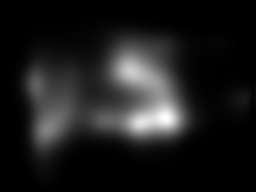
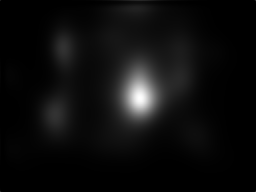
added 'other' option for datasets, worked on DAVIS

Changed region(s): [[0.0625, 0.1875, 0.7812, 0.8438], [0.4688, 0.0, 0.5938, 0.0938], [0.2188, 0.1562, 0.2812, 0.3125]]

diff --git a/src/inference.py b/src/inference.py
@@ -11,7 +11,7 @@ import torch.backends.cudnn as cudnn
 from torch import nn
 from torch.utils import data
 from torch.autograd import Variable
-from data_loader import DHF1K_frames, Hollywood_frames
+from data_loader import DHF1K_frames, Hollywood_frames, DAVIS_frames
 
 
 """
@@ -43,19 +43,17 @@ params = {'batch_size': 1,
 
 def main(args):
 
-    if args.dataset == "DHF1K" or args.dataset == "other":
-        dst = os.path.join(args.dst, "{}_predictions".format(args.pt_model.replace(".pt", "")))
-    elif args.dataset == "Hollywood-2" or args.dataset == "UCF-sports":
+    if args.dataset == "Hollywood-2" or args.dataset == "UCF-sports":
         dst = os.path.join(args.dst, "{}/testing".format(args.dataset)) #Hollywood or UCF-sports
     else:
-        print("Dataset not recognized. If you want to input your own dataset use input '-dataset=other' and specify the path '-src /path/to/mydataset'.")
+        dst = os.path.join(args.dst, "{}_predictions".format(args.pt_model.replace(".pt", "")))
     print("Output directory {}".format(dst))
 
     # =================================================
     # ================ Data Loading ===================
 
     #Expect Error if either validation size or train size is 1
-    if args.dataset == "DHF1K" or args.dataset == "other":
+    if args.dataset == "DHF1K":
         #print(args.start)
         #print(args.end)
         print("Commencing inference for dataset {}".format(args.dataset))
@@ -76,6 +74,14 @@ def main(args):
             clip_length = CLIP_LENGTH,
             resolution = frame_size)
         video_name_list = dataset.video_names() #match an index to the sample video name
+    elif args.dataset == "DAVIS" or args.dataset == "other":
+        print("Commencing inference for dataset {}".format(args.dataset))
+        dataset = DAVIS_frames(
+            root_path = args.src,
+            clip_length = CLIP_LENGTH,
+            resolution = frame_size)
+        video_name_list = dataset.video_names() #match an index to the sample video name
+
 
     print("Size of test set is {}".format(len(dataset)))
 
@@ -209,7 +215,7 @@ def main(args):
                     state = repackage_hidden(state)
             print("Video {} done".format(i+int((args.start))))
 
-        elif args.dataset == "Hollywood-2" or "UCF-sports":
+        elif args.dataset == "Hollywood-2" or args.dataset == "UCF-sports":
 
             video_dst = os.path.join(dst, video_name_list[i], '{}_predictions'.format(args.pt_model.replace(".pt", "")))
             print("Destination: {}".format(video_dst))
@@ -218,33 +224,52 @@ def main(args):
 
             for j, (clip, _) in enumerate(video):
                 clip = Variable(clip.type(dtype).transpose(0,1), requires_grad=False)
-                if args.double_ema:
-                    if state == None:
-                        state = (None, None)
-                    for idx in range(clip.size()[0]):
-                        # Compute output
-                        state, saliency_map = model.forward(input_ = clip[idx], prev_state_1 = state[0], prev_state_2 = state[1])
+                for idx in range(clip.size()[0]):
+                    # Compute output
+                    if TEMPORAL:
+                        state, saliency_map = model.forward(input_ = clip[idx], prev_state = state)
+                    else:
+                        saliency_map = model.forward(input_ = clip[idx])
 
-                        saliency_map = saliency_map.squeeze(0) # Target is 3 dimensional (grayscale image)
+                    count+=1
+                    saliency_map = saliency_map.squeeze(0)
 
-                        post_process_saliency_map = (saliency_map-torch.min(saliency_map))/(torch.max(saliency_map)-torch.min(saliency_map))
-                        utils.save_image(post_process_saliency_map, os.path.join(video_dst, "{}.png".format(str(count).zfill(4))))
+                    post_process_saliency_map = (saliency_map-torch.min(saliency_map))/(torch.max(saliency_map)-torch.min(saliency_map))
+                    utils.save_image(post_process_saliency_map, os.path.join(video_dst, "{}{}.png".format(video_name_list[i][:-1], str(count).zfill(5))))
+                    if count == 1:
+                        print("The final destination is {}. Cancel now if this is incorrect".format(os.path.join(video_dst, "{}{}.png".format(video_name_list[i][:-1], str(count).zfill(5)))))
 
-                else:
-                    for idx in range(clip.size()[0]):
-                        # Compute output
-                        if TEMPORAL:
-                            state, saliency_map = model.forward(input_ = clip[idx], prev_state = state)
-                        else:
-                            saliency_map = model.forward(input_ = clip[idx])
+                if TEMPORAL:
+                    state = repackage_hidden(state)
+            print("Video {} done".format(i+int(args.start)))
 
-                        count+=1
-                        saliency_map = saliency_map.squeeze(0)
+        elif args.dataset == "DAVIS" or args.dataset == "other":
 
-                        post_process_saliency_map = (saliency_map-torch.min(saliency_map))/(torch.max(saliency_map)-torch.min(saliency_map))
-                        utils.save_image(post_process_saliency_map, os.path.join(video_dst, "{}{}.png".format(video_name_list[i][:-1], str(count).zfill(5))))
-                        if count == 1:
-                            print("The final destination is {}. Cancel now if this is incorrect".format(os.path.join(video_dst, "{}{}.png".format(video_name_list[i][:-1], str(count).zfill(5)))))
+            video_dst = os.path.join(dst, video_name_list[i])
+            # if "shooting" in video_dst:
+            #     # CUDA error: out of memory is encountered whenever inference reaches that vid.
+            #     continue
+            print("Destination: {}".format(video_dst))
+            if not os.path.exists(video_dst):
+                os.mkdir(video_dst)
+
+            for j, (clip, _) in enumerate(video):
+                clip = Variable(clip.type(dtype).transpose(0,1), requires_grad=False)
+
+                for idx in range(clip.size()[0]):
+                    # Compute output
+                    if TEMPORAL:
+                        state, saliency_map = model.forward(input_ = clip[idx], prev_state = state)
+                    else:
+                        saliency_map = model.forward(input_ = clip[idx])
+
+                    count+=1
+                    saliency_map = saliency_map.squeeze(0)
+
+                    post_process_saliency_map = (saliency_map-torch.min(saliency_map))/(torch.max(saliency_map)-torch.min(saliency_map))
+                    utils.save_image(post_process_saliency_map, os.path.join(video_dst, "{}.jpg".format(str(count).zfill(5))))
+                    if count == 1:
+                        print("The final destination is {}. Cancel now if this is incorrect".format(os.path.join(video_dst, "{}.jpg".format(str(count).zfill(5)))))
 
                 if TEMPORAL:
                     state = repackage_hidden(state)

diff --git a/src/data_loader.py b/src/data_loader.py
@@ -236,6 +236,111 @@ class Hollywood_frames(data.Dataset):
 
 
 
+# The DataLoader for our specific video datataset with extracted frames
+class DAVIS_frames(data.Dataset):
+
+  def __init__(self, clip_length, resolution=None, root_path = "~/projects/segmentation/davis2017/JPEGImages/480p", load_gt = False):
+        """
+        Frames should be under a folder "images" and ground truths under folder named "maps"
+        """
+
+        self.cl = clip_length
+        self.root_path = root_path # in our case it's salgan saliency maps
+        self.ImageNet_mean = [103.939, 116.779, 123.68]
+        self.resolution = resolution
+        self.load_gt = load_gt
+        # A list to keep all video lists of salgan predictions, which will be our dataset.
+        self.video_list = []
+
+        # A list to keep all the dictionaries of ground truth - saliency map pairings for each video
+        self.gts_list = []
+
+        # A list to match an index to the video name
+        self.video_name_list = []
+
+        sample_list = os.listdir(root_path)
+        start = datetime.datetime.now().replace(microsecond=0) # Gives accurate human readable time, rounded down not to include too many decimals
+        count = 0
+        for i in sample_list:
+
+            frame_files = [os.path.join(self.root_path, str(i), file) for file in os.listdir(os.path.join(self.root_path, str(i)))]
+            #print("for video {} the frames are {}".format(i, len(frame_files))) # This is correct
+
+            # Now to sort based on their file number. The "key" parameter in sorted is a function based on which the sorting will happen (I use split to exclude the jpg/png from the).
+            frame_files_sorted = sorted(frame_files)
+            # a list of lists
+            self.video_list.append(frame_files_sorted)
+            self.video_name_list.append(i)
+
+            count += 1
+
+            if count%50==0:
+              print("Video {} (Number {}) finished.".format(i, count))
+              print("Time elapsed so far: {}".format(datetime.datetime.now().replace(microsecond=0)-start))
+
+
+  def video_names(self):
+      return self.video_name_list
+
+  def __len__(self):
+        'Denotes the total number of samples'
+        return len(self.video_list)
+
+  def __getitem__(self, video_index):
+
+        'Generates one sample of data'
+        # Select sample video (frame list), in our case saliency map list
+        frames = self.video_list[video_index]
+
+        data = []
+        gt = []
+        packed = []
+        #print("Frame: {}".format(frames[0]))
+        for i, path_to_frame in enumerate(frames):
+
+          X = cv2.imread(path_to_frame)
+          if self.resolution!=None:
+            X = cv2.resize(X, (self.resolution[1], self.resolution[0]), interpolation=cv2.INTER_AREA)
+          X = X.astype(np.float32)
+          X -= self.ImageNet_mean
+          #X = (X-np.min(X))/(np.max(X)-np.min(X))
+          X = torch.FloatTensor(X)
+          X = X.permute(2,0,1) # swap channel dimensions
+
+          data.append(X.unsqueeze(0))
+          # Load and preprocess ground truth (saliency maps)
+          if self.load_gt:
+            path_to_gt = path_to_frame.replace("images", "maps")
+            y = cv2.imread(path_to_gt, 0) # Load as grayscale
+            if self.resolution!=None:
+              y = cv2.resize(y, (self.resolution[1], self.resolution[0]), interpolation=cv2.INTER_AREA)
+            y = (y-np.min(y))/(np.max(y)-np.min(y))
+            y = torch.FloatTensor(y)
+
+            gt.append(y.unsqueeze(0))
+
+            """
+            print("frame: {}".format(path_to_frame))
+            print("gtruth: {}".format(path_to_gt))
+            exit()
+            """
+
+          if (i+1)%self.cl == 0 or i == (len(frames)-1):
+
+            data_tensor = torch.cat(data,0)
+            data = []
+            if self.load_gt:
+              gt_tensor = torch.cat(gt,0)
+              gt = []
+              packed.append((data_tensor,gt_tensor)) # pack a list of data with the corresponding list of ground truths
+            else:
+              packed.append((data_tensor, "_"))
+
+
+        return packed
+
+
+
 
 # DataLoader for inference Works for EgoMon and GTEA
 class Ego_frames(data.Dataset):

diff --git a/src/train.py b/src/train.py
@@ -18,9 +18,6 @@ from data_loader import DHF1K_frames, Hollywood_frames
 """
 Be sure to check the name of args.new_model before running
 """
-dataset_name = "UCF-sports"
-dataset_name = "DHF1K"
-dataset_name = "Hollywood-2"
 frame_size = (192, 256) # original shape is (360, 640, 3)
 #learning_rate = 0.0000001 # Added another 0 for hollywood
 decay_rate = 0.1
@@ -29,10 +26,8 @@ weight_decay = 1e-4
 #epochs = 7+1 #+3+2
 plot_every = 1
 clip_length = 10
-starting_video = 1
-number_of_videos = 600 #600 #Reset to 600
 
-temporal = True
+#temporal = True
 #RESIDUAL = False
 #args.dropout = True
 SALGAN_WEIGHTS = 'model_weights/salgan_salicon.pt' #JuanJo's weights
@@ -65,7 +60,7 @@ def main(args, params = params):
     # ================ Data Loading ===================
 
     #Expect Error if either validation size or train size is 1
-    if args.dataset == "DHF1K" or args.dataset == "other":
+    if args.dataset == "DHF1K":
         print("Commencing training on dataset {}".format(args.dataset))
         train_set = DHF1K_frames(
             root_path = args.src,

diff --git a/evaluation/metric_calculation.py b/evaluation/metric_calculation.py
@@ -22,14 +22,14 @@ SM_DIR = "/imatge/lpanagiotis/work/DHF1K/SalBCE_predictions"
 SM_DIR = "/imatge/lpanagiotis/work/DHF1K/SalEMA30D_H_predictions"
 SM_DIR = "/imatge/lpanagiotis/work/DHF1K/SalGANmid_H_predictions"
 SM_DIR = "/imatge/lpanagiotis/work/DHF1K/SalEMA30A_predictions"
-SM_DIR = "/imatge/lpanagiotis/work/DHF1K/SalEMA30Afinal_predictions"
 SM_DIR = "/imatge/lpanagiotis/work/DHF1K/SalEMA30Afinal_H_predictions"
+SM_DIR = "/imatge/lpanagiotis/work/DHF1K/SalEMA30Afinal700_predictions"
 
 RESCALE_GTs = False
 print("Now evaluating on {}".format(SM_DIR))
 continue_calculations = False
 
-STARTING_VIDEO = 601 #Using the last 100 seen videos to test a hypothesis
+STARTING_VIDEO = 601
 NUMBER_OF_VIDEOS = 700
 
 if continue_calculations:

diff --git a/README.md b/README.md
@@ -41,11 +41,13 @@ python inference.py -dataset=Hollywood-2 -pt_model=SalEMA30.pt -dst=/path/to/Hol
 python inference.py -dataset=UCF-sports -pt_model=SalEMA30.pt -dst=/path/to/UCF-sports/testing -src=/path/to/UCF-sports/testing
 ```
 
-To perform inference on your own dataset make sure to follow the same structure as DHF1K (numbered folders followed by numbered frames):
+To perform inference on your own dataset make sure to follow a simple folder structure (one superfolder given as root at the input, which includes folders of frames) and use the tag "other":
 
 ```shell
-python inference.py -dataset=other -pt_model=SalEMA30.pt -dst=/path/to/output -src=/path/to/your_dataset/frames
+python inference.py -dataset=other -pt_model=SalEMA30.pt -dst=/path/to/output -src=/path/to/superfolder/frames
 ```
+
+If your dataset follows a more quirky structure you might need to manipulate the data_loader source code.
 
 ## Training
 
